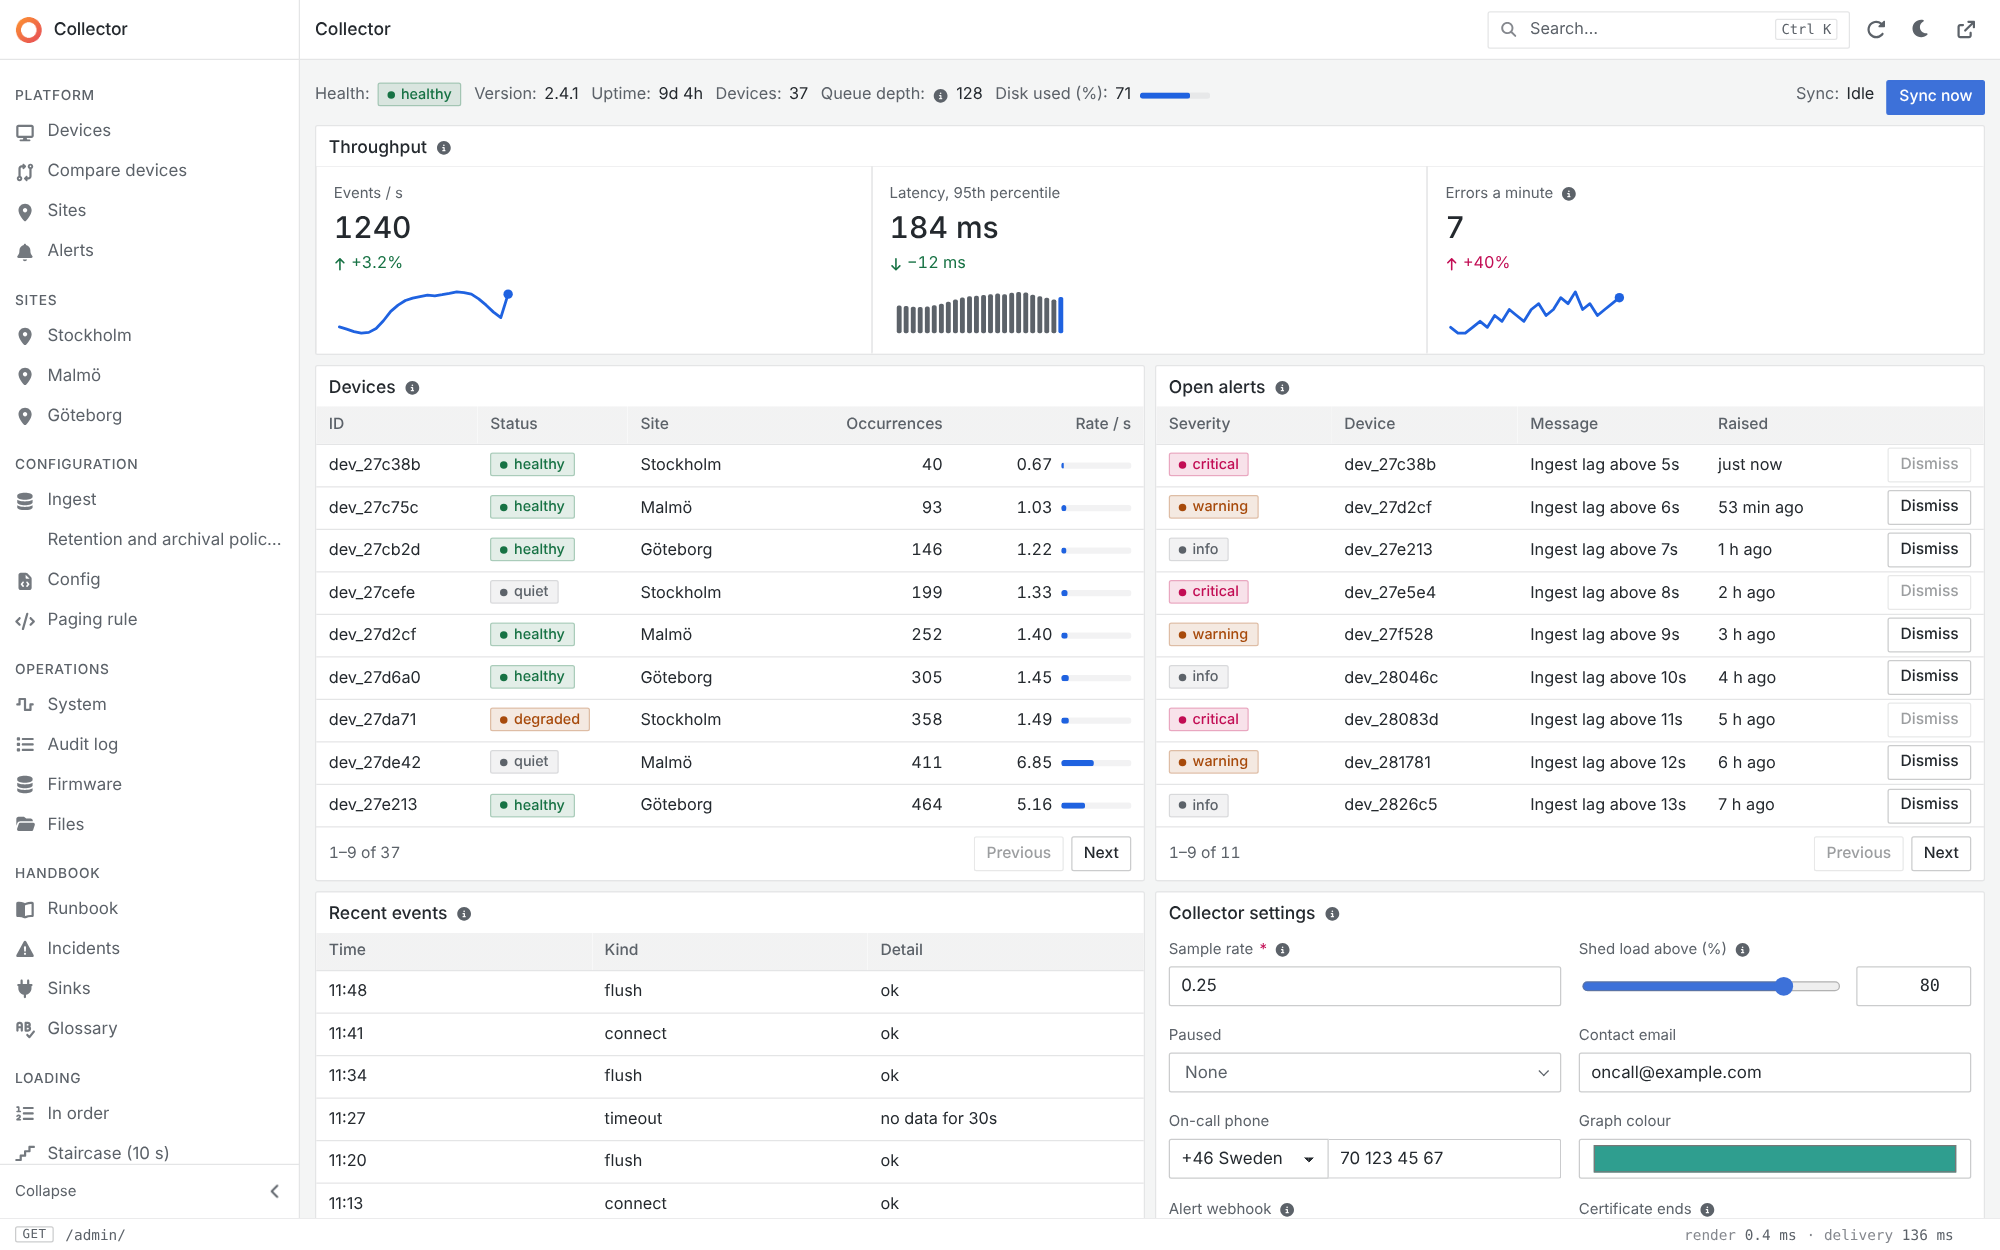
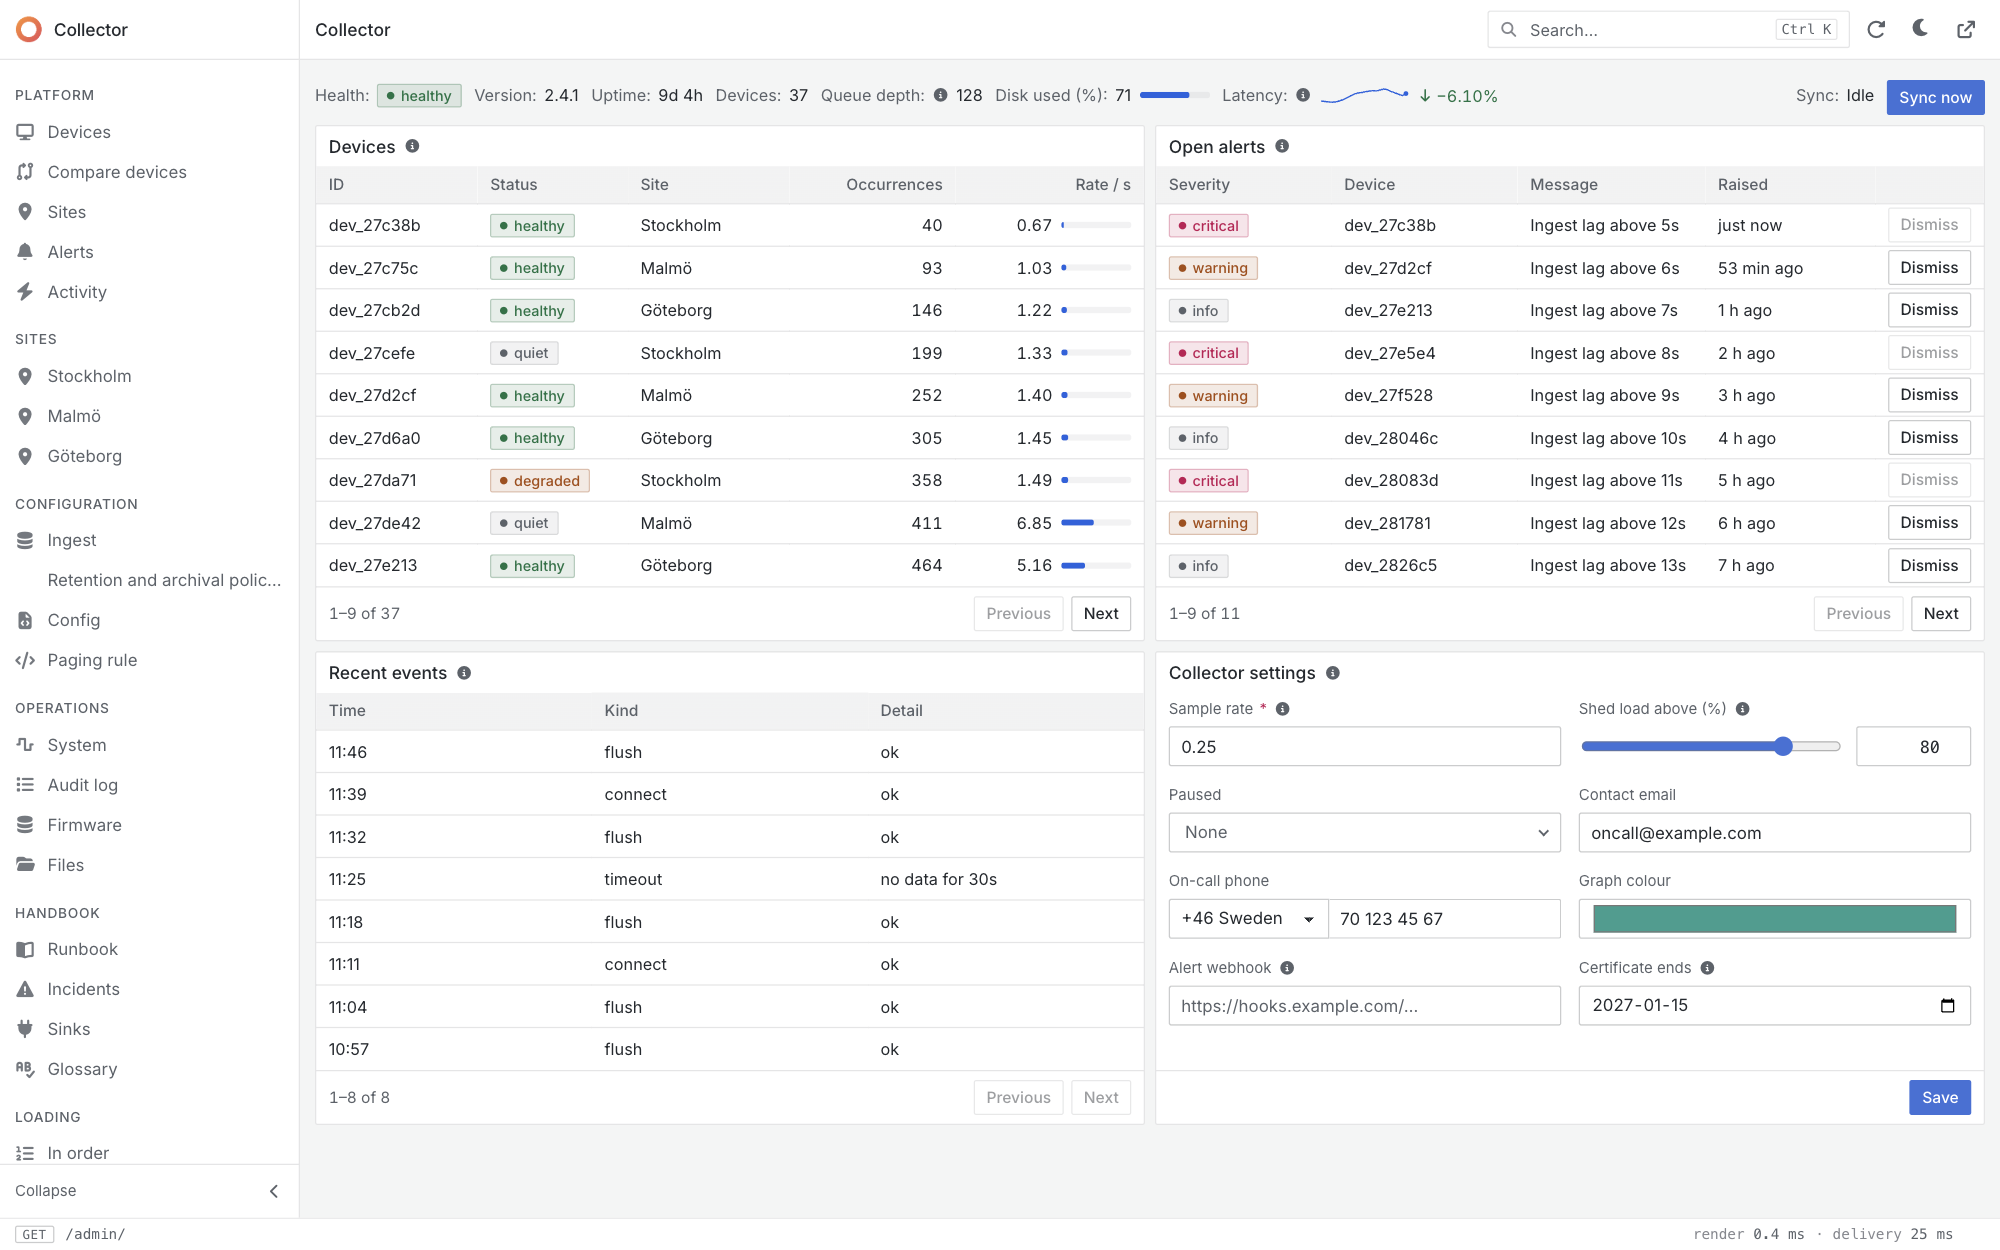
docs: Retake the landing page screenshots for Trend (#139)

diff --git a/README.md b/README.md
@@ -18,7 +18,7 @@ server-rendered UI, with **no HTML, CSS or JavaScript to write**.
 
 <picture>
   <source media="(prefers-color-scheme: dark)" srcset="docs/images/overview-dark.png">
-  <img alt="The demo's landing page: a sidebar of pages, a search box, a toolbar of the collector's status with a Sync now button, three figures of its throughput each with how it moved since yesterday and a small chart of the day, a table of devices with status badges and rate bars, a table of open alerts with severity badges and Dismiss buttons, a table of recent events, and a form of the collector's settings with a slider, a country-code phone input, a colour picker and a date." src="docs/images/overview-light.png">
+  <img alt="The demo's landing page: a sidebar of pages, a search box, a toolbar of the collector's status with its latency as a small chart and how it moved since yesterday, and a Sync now button, a table of devices with status badges and rate bars, a table of open alerts with severity badges and Dismiss buttons, a table of recent events, and a form of the collector's settings with a slider, a country-code phone input, a colour picker and a date." src="docs/images/overview-light.png">
 </picture>
 
 That is the demo's landing page, `go run ./cmd/demo`, in light or dark as the viewer's
